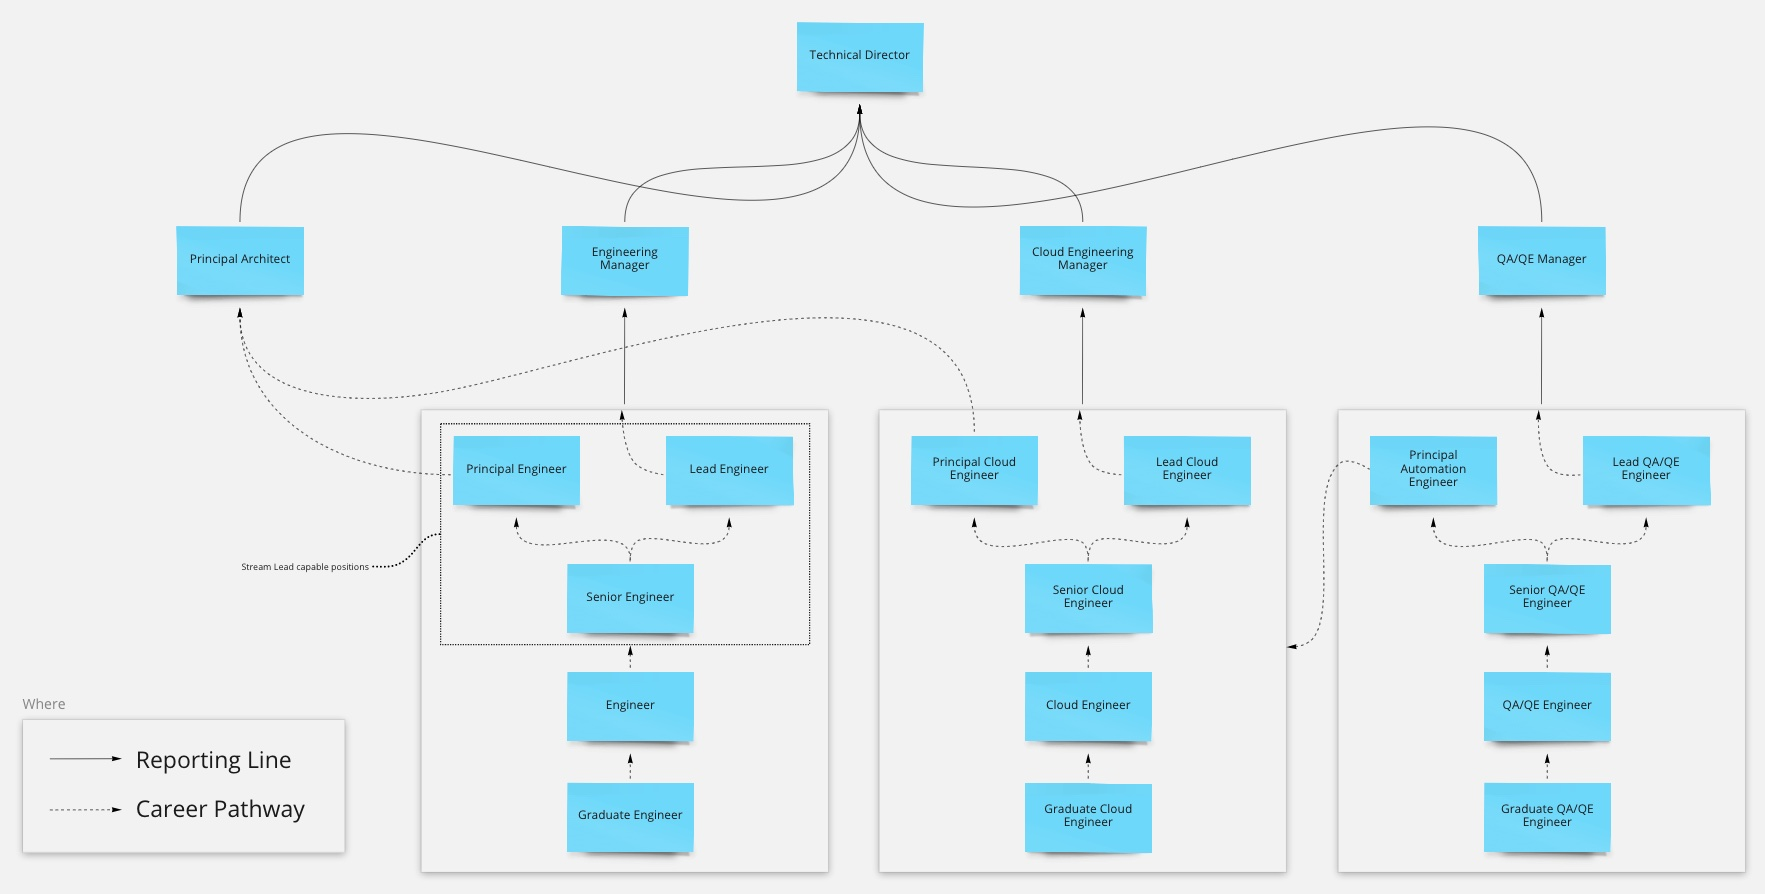
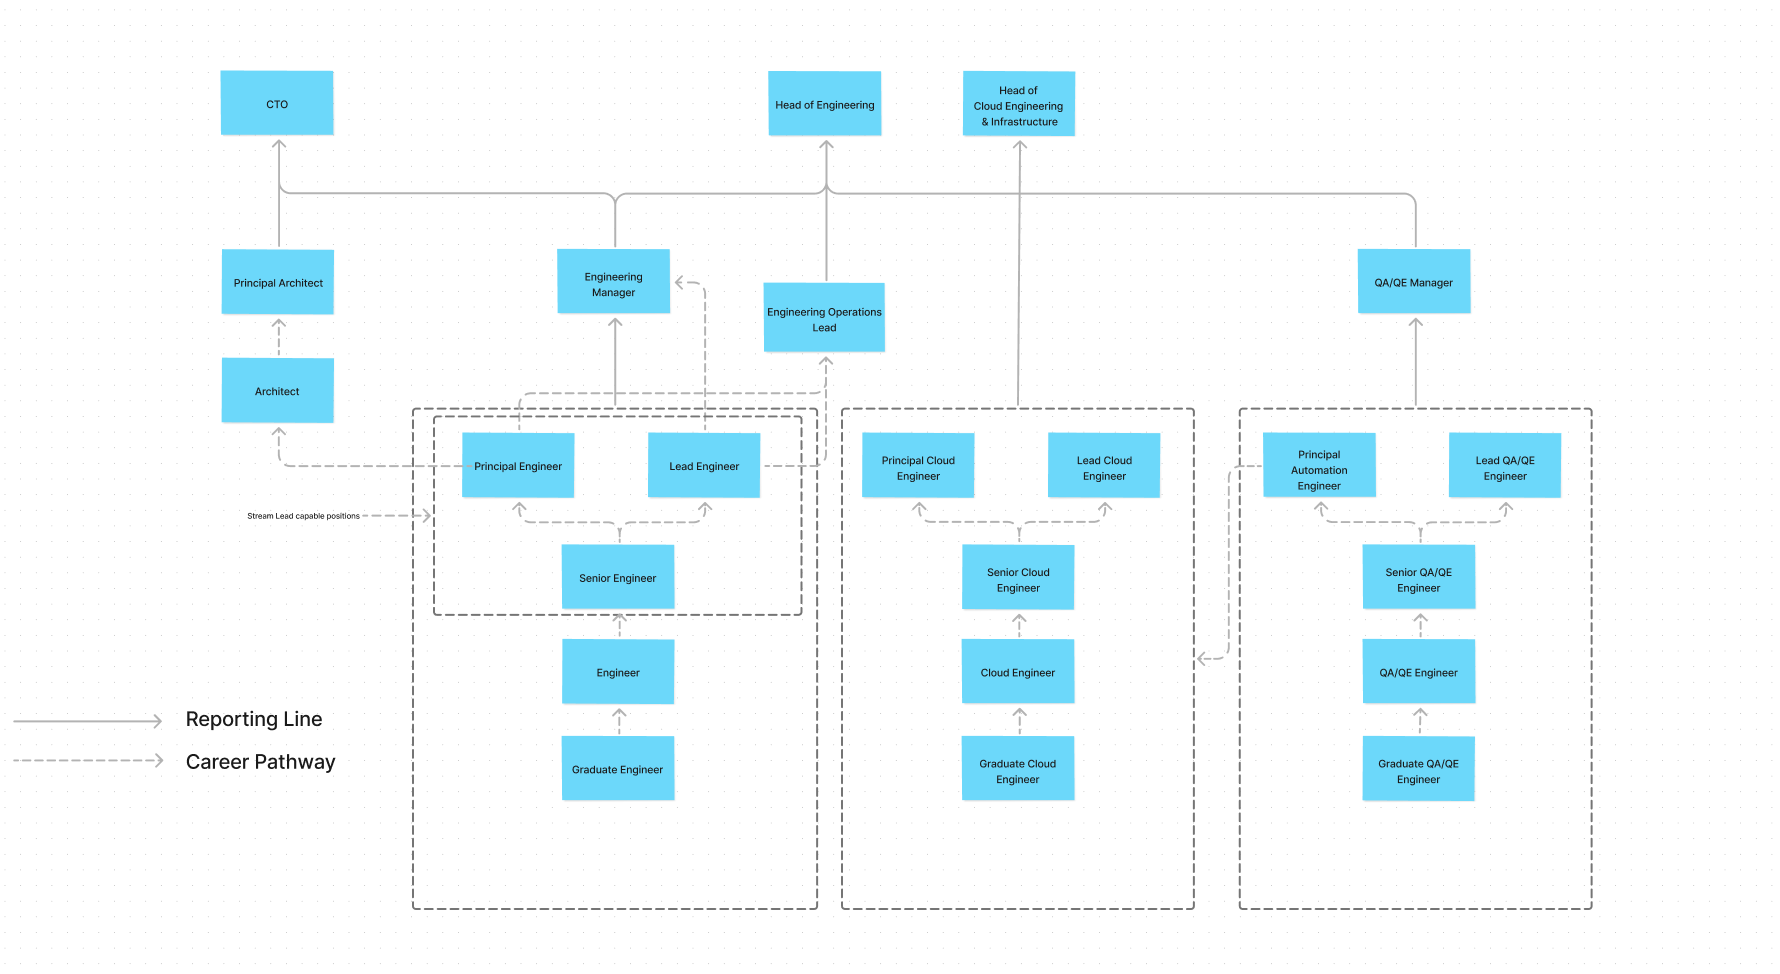
Adding new role, Engineering operations lead and updating the diagram.

diff --git a/Engineering.md b/Engineering.md
@@ -189,6 +189,43 @@
 - I am becoming a trusted voice in Loan Market and my opinions and ideas seem to carry some weight.
 - I am mentoring another team member, deliberately helping them to round out their skill set.
 - I am sharing my on-the-job learning and experiences with others so they can be more effective in their roles.
+---
+
+## Engineering Operations Lead
+> I am a well-rounded developer, architect and problem solver. I am trusted to set processes and practices that help engineers support our platforms established value while balancing engineering ideals with external pressures.
+
+#### I am trusted to lead a team and help the team manage competing priorities
+- I set clear expectations for people and they know how they are progressing against those expectations. I create bounded environments for action and let people have freedom within those boundaries.
+- I am responsible for my team and the relationship with our stakeholders.
+- I can confidently step outside my comfort zone and adapt quickly to new team situations.
+- I am comfortable diving head-first into moderately risky environments with relatively little upfront information and oversight.
+- I am comfortable with transparently assessing risk, making recommendations, escalating appropriately and dealing with the consequences along the way.
+- I am proficient at leading software projects using agreed practices.
+- I can confidently and charismatically pitch ideas and influence my team's decisions.
+- I am an excellent communicator, and can effectively steer technical and non-technical conversations to positive outcomes over any medium.
+- I recognise problems with my team and proactively engage with relevant leaders as needed to prevent or resolve them quickly.
+
+#### I guide engineering teams towards maintaining the established value of our platforms.
+- I am the owner of the processes designed to support established features and a key driver for constant improvement and collaboration across teams. 
+- I invest in sustainable delivery, maintaining professional standards and striking a pragmatic balance between idealistic purity and business pressures.
+- I am very comfortable performing business analysis work. I often play the role of Product understanding the long term vision and making engineering choices that align with that vision.
+
+#### I am adaptable
+- I realise that there are many tools that can solve a given problem and each have their own pros and cons.
+- I can adapt to a given situation and can learn and implement new technologies with very short notice.
+- I seek out relevant SME’s to expand understanding and expedite outcomes.
+- I know that my knowledge will soon be obsolete so I'm actively investing in other areas or technologies into which I can grow.
+
+#### I know the pressures of being a key leader.
+- I know how to identify business problems/goals and evaluate the ROI and TCO of potential solutions.
+- I understand how budgeting, competition, strategic alignment and compliance pressures can influence technology decisions and am able to adjust proposed solutions based on those factors.
+- I understand the bigger picture of how software development, compliance, marketing and other business departments all interrelate and influence the success of a business.
+- I know how to adjust my communications style based on my audience, from support to engineer to sales and marketing to C-level executives and business owners.
+- I know the impact of internal politics in organisations and how it can alter decision making processes. I work to minimise any such activities and proactively display a culture of 	ownership and inclusion.
+- I am a driver for technical and business opportunities
+- I am looking for new opportunities and thinking beyond what we are creating today.
+- I don't rely on the Product Manager to define direction. I am constantly asking questions and looking for ways to improve our intentions.
+- I listen to the team but advocate for more. I look to change negative attitudes into positive plans of action.
 
 ---
 

diff --git a/DIAGRAM.md b/DIAGRAM.md
@@ -3,7 +3,7 @@ flowchart BT
   subgraph band_td [ ]
     direction LR
     
-    td[Technical Director]
+    td[Head of Engineering]
 
     subgraph legend [Where]
       direction LR
@@ -20,6 +20,7 @@ flowchart BT
     em[Engineering Manager]
     cem[Cloud Engineering Manager]
     qam[QA/QE Manager]
+    eol[Engineering Operations Lead]
   end
 
   subgraph band_teams [ ]
@@ -78,6 +79,7 @@ flowchart BT
 
   pae -.-> report_cem
   le -.-> em
+  le -.-> eol
   lce -.-> cem
   lqe -.-> qam
 
@@ -85,6 +87,7 @@ flowchart BT
   report_cem --> cem
   report_qam --> qam
   pe -..-> pa
+  pe -.-> eol
   pce -..-> pa
 
   pa --> td
